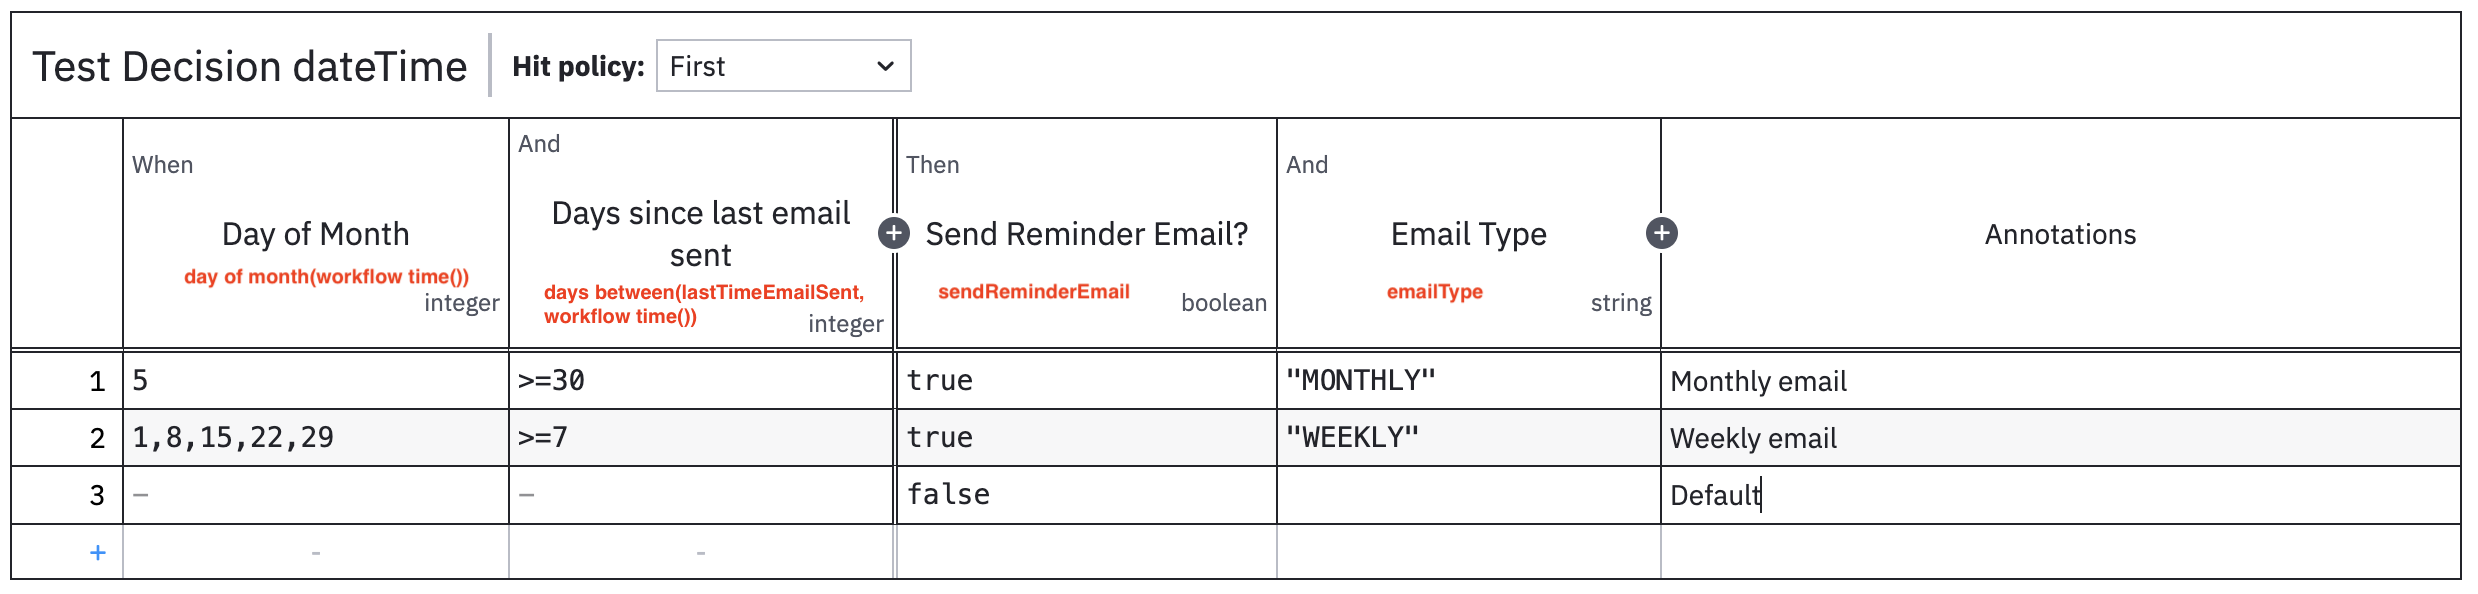
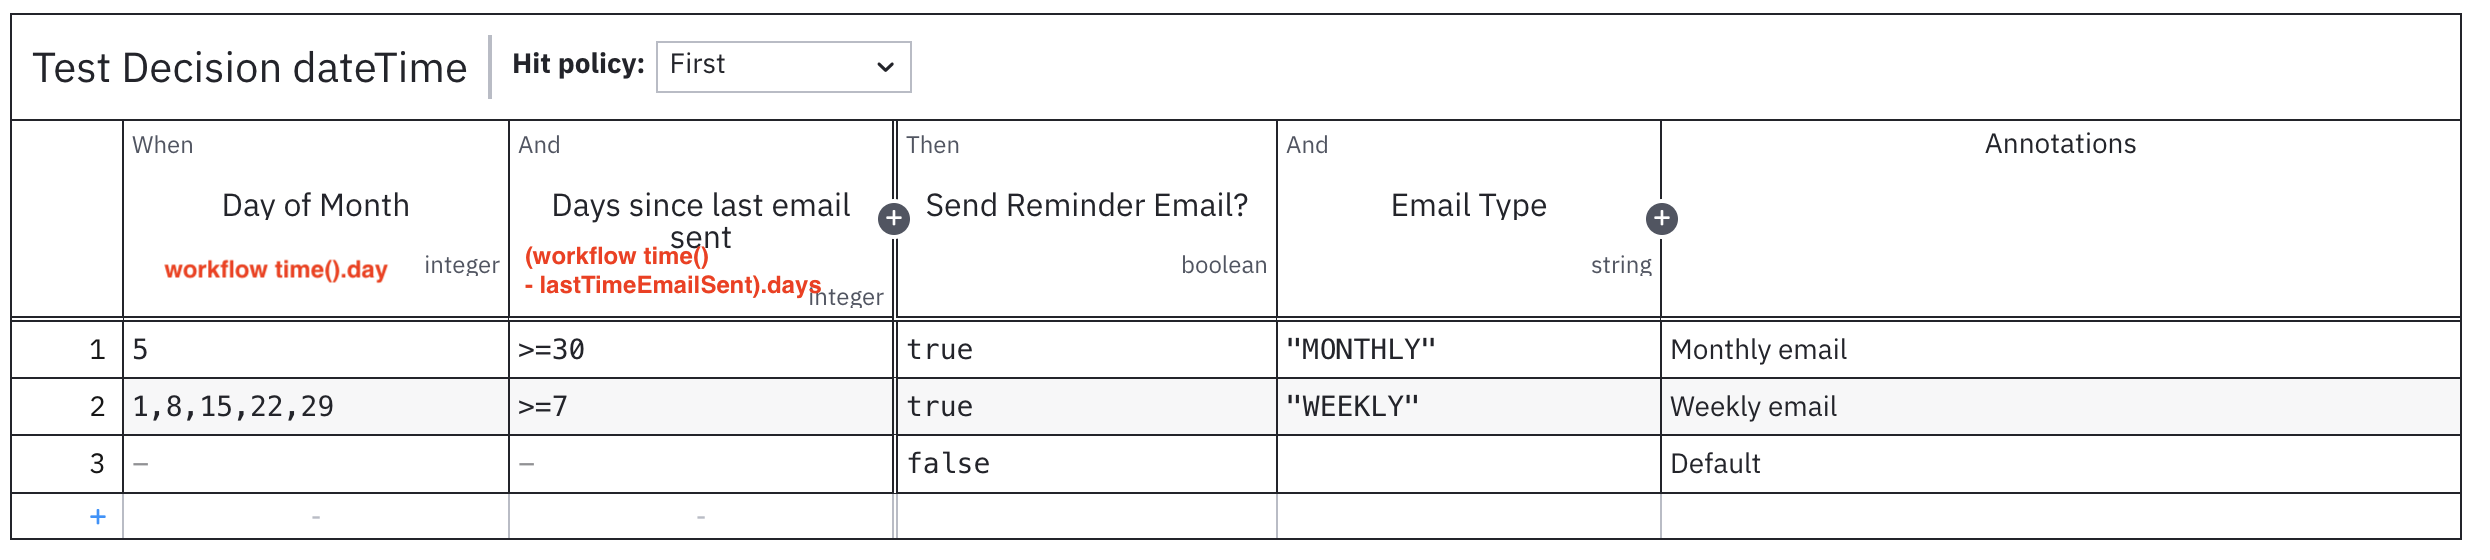
DMN Custom Functions: replace "day of month", "days between" with standard FEEL functions

diff --git a/dmn-custom-functions/src/main/java/org/camunda/bpm/examples/custom/dmn/engine/DmnCustomFunctionProvider.java b/dmn-custom-functions/src/main/java/org/camunda/bpm/examples/custom/dmn/engine/DmnCustomFunctionProvider.java
@@ -1,15 +1,11 @@
 package org.camunda.bpm.examples.custom.dmn.engine;
 
 import static java.util.stream.Collectors.toSet;
-import static org.camunda.bpm.examples.custom.dmn.utils.DateUtils.*;
 import static org.camunda.bpm.examples.custom.dmn.utils.JsonHelper.fromJSONArray;
 import static org.camunda.bpm.examples.custom.dmn.utils.JsonHelper.jsonToMap;
 
 import java.io.IOException;
-import java.time.LocalDateTime;
-import java.time.temporal.ChronoUnit;
 import java.util.*;
-import java.util.stream.Stream;
 
 import org.camunda.bpm.dmn.feel.impl.scala.function.CustomFunction;
 import org.camunda.bpm.dmn.feel.impl.scala.function.FeelCustomFunctionProvider;
@@ -28,18 +24,12 @@ public class DmnCustomFunctionProvider implements FeelCustomFunctionProvider {
   private static final String LIST_END = "]";
 
   private static final String CONTAINS_ANY_OF = "containsAnyOf"; // containsAnyOfEquals/Like?
-
   private static final String WORKFLOW_TIME = "workflow time"; // workflow time()
-  private static final String DAY_OF_MONTH = "day of month"; // day of month(workflow time())
-  private static final String DAYS_BETWEEN = "days between"; // days between(ts, workflow time())
-
   private static final String JSON_VALUE = "json value"; // json value(?, 'key1')
 
   public DmnCustomFunctionProvider() {
     FUNCTIONS.put(CONTAINS_ANY_OF, containsAnyOf());
     FUNCTIONS.put(WORKFLOW_TIME, workflowTime());
-    FUNCTIONS.put(DAY_OF_MONTH, dayOfMonth());
-    FUNCTIONS.put(DAYS_BETWEEN, daysBetween());
     FUNCTIONS.put(JSON_VALUE, jsonValue());
   }
 
@@ -114,37 +104,6 @@ public class DmnCustomFunctionProvider implements FeelCustomFunctionProvider {
   private CustomFunction workflowTime() {
     return CustomFunction.create()
         .setFunction(args -> getWorkflowCurrentTime())
-        .build();
-  }
-
-  // Format: day of month(Optional: date/date-time)
-  // Return: dayOfMonth
-  private CustomFunction dayOfMonth() {
-    return CustomFunction.create()
-        .enableVarargs()
-        .setFunction(args -> {
-          var dateTime = toLocalDateTime(getWorkflowCurrentTime());
-          if (!ObjectUtils.isEmpty(args) && args.get(0) != null) {
-            dateTime = (LocalDateTime) args.get(0);
-          }
-          return dateTime.getDayOfMonth();
-        })
-        .build();
-  }
-
-  // Format: days between(date/date-time, date/date-time)
-  // Return: daysBetween
-  private CustomFunction daysBetween() {
-    return CustomFunction.create()
-        .enableVarargs()
-        .setFunction(args -> {
-          var from = ((LocalDateTime) args.get(0)).withHour(0).withMinute(0).withSecond(0).withNano(0);
-          var to = ((LocalDateTime) args.get(1)).withHour(0).withMinute(0).withSecond(0).withNano(0);
-          var result = Stream.iterate(toDate(from), date -> dateInFutureFrom(date, 1, ChronoUnit.DAYS))
-              .takeWhile(date -> date.before(toDate(to)))
-              .toList();
-          return result.size();
-        })
         .build();
   }
 

diff --git a/dmn-custom-functions/README.md b/dmn-custom-functions/README.md
@@ -20,16 +20,6 @@ Camunda extension to provide the set of additional FEEL functions for DMN.
 // Format: workflow time()
 // Return: current workflow time, not current date/time (important for Unit-tests)
 ```
-* `day of month`
-```java
-// Format: day of month(Optional: date/date-time)
-// Return: dayOfMonth
-```
-* `days between`
-```java
-// Format: days between(date/date-time, date/date-time)
-// Return: daysBetween
-```
 ![DMN](docs/dateTime.png)
 * `json value`
 ```java
